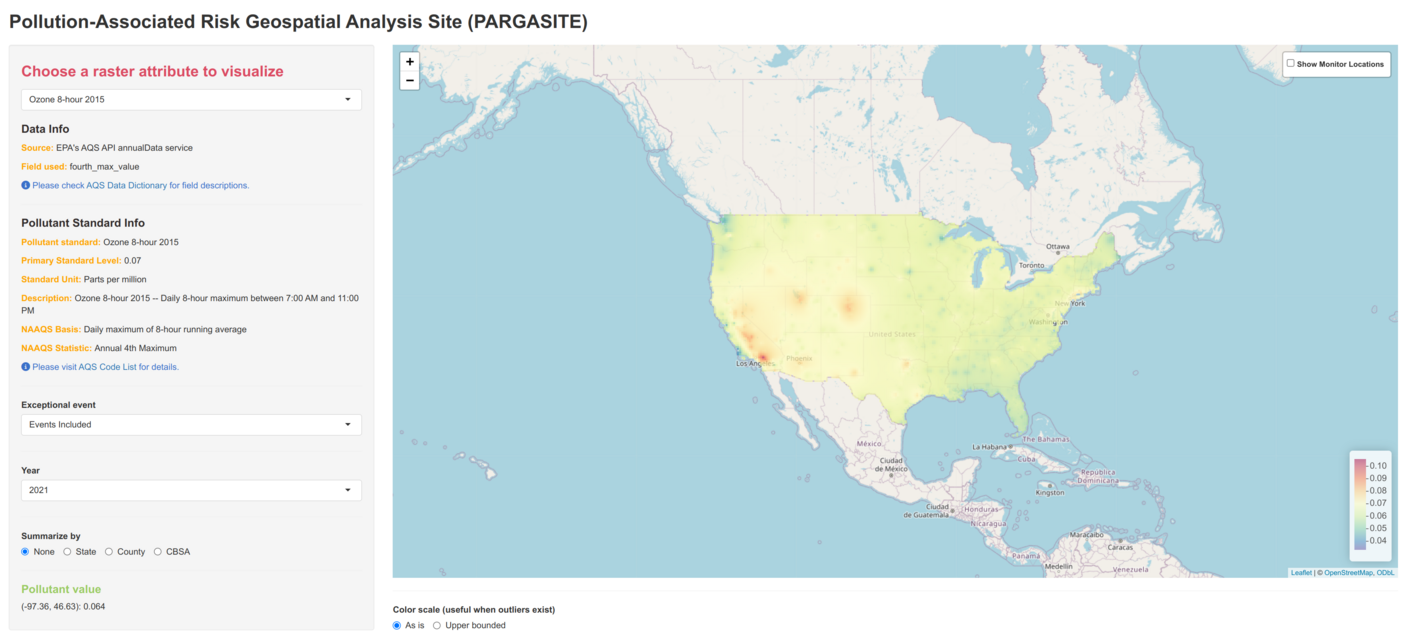
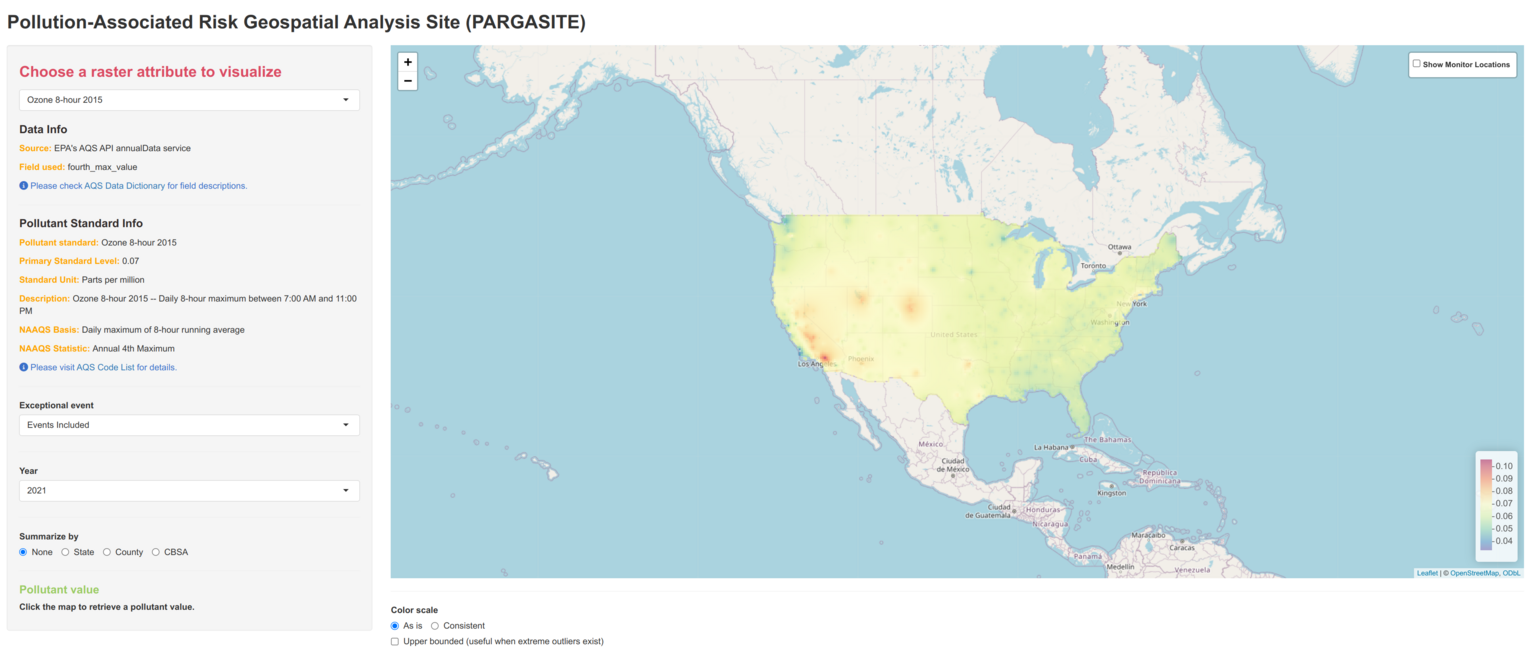
Add consistent color-scale across different times and event filters.

diff --git a/README.md b/README.md
@@ -101,8 +101,12 @@ started.
 
 On the left panel, a user can choose a pollutant attribute, event filter, and
 year to visualize. Relevant pollutant standard information will be provided. A
-pollutant value will be printed at bottom left in response to a mouse click
-event for a specific location.
+pollutant value will be printed at the bottom left in response to a mouse click
+event for a specific location. For the color scale menu, “As is” selects colors
+based on the currently selected data, whereas “Consistent” picks ones that have
+the same range across different times and event filters for easy comparisons.
+The “Upper bounded” checkbox can be useful when color distortion is expected due
+to extreme outliers.
 
 ![](vignettes/pargasite1.png)
 
